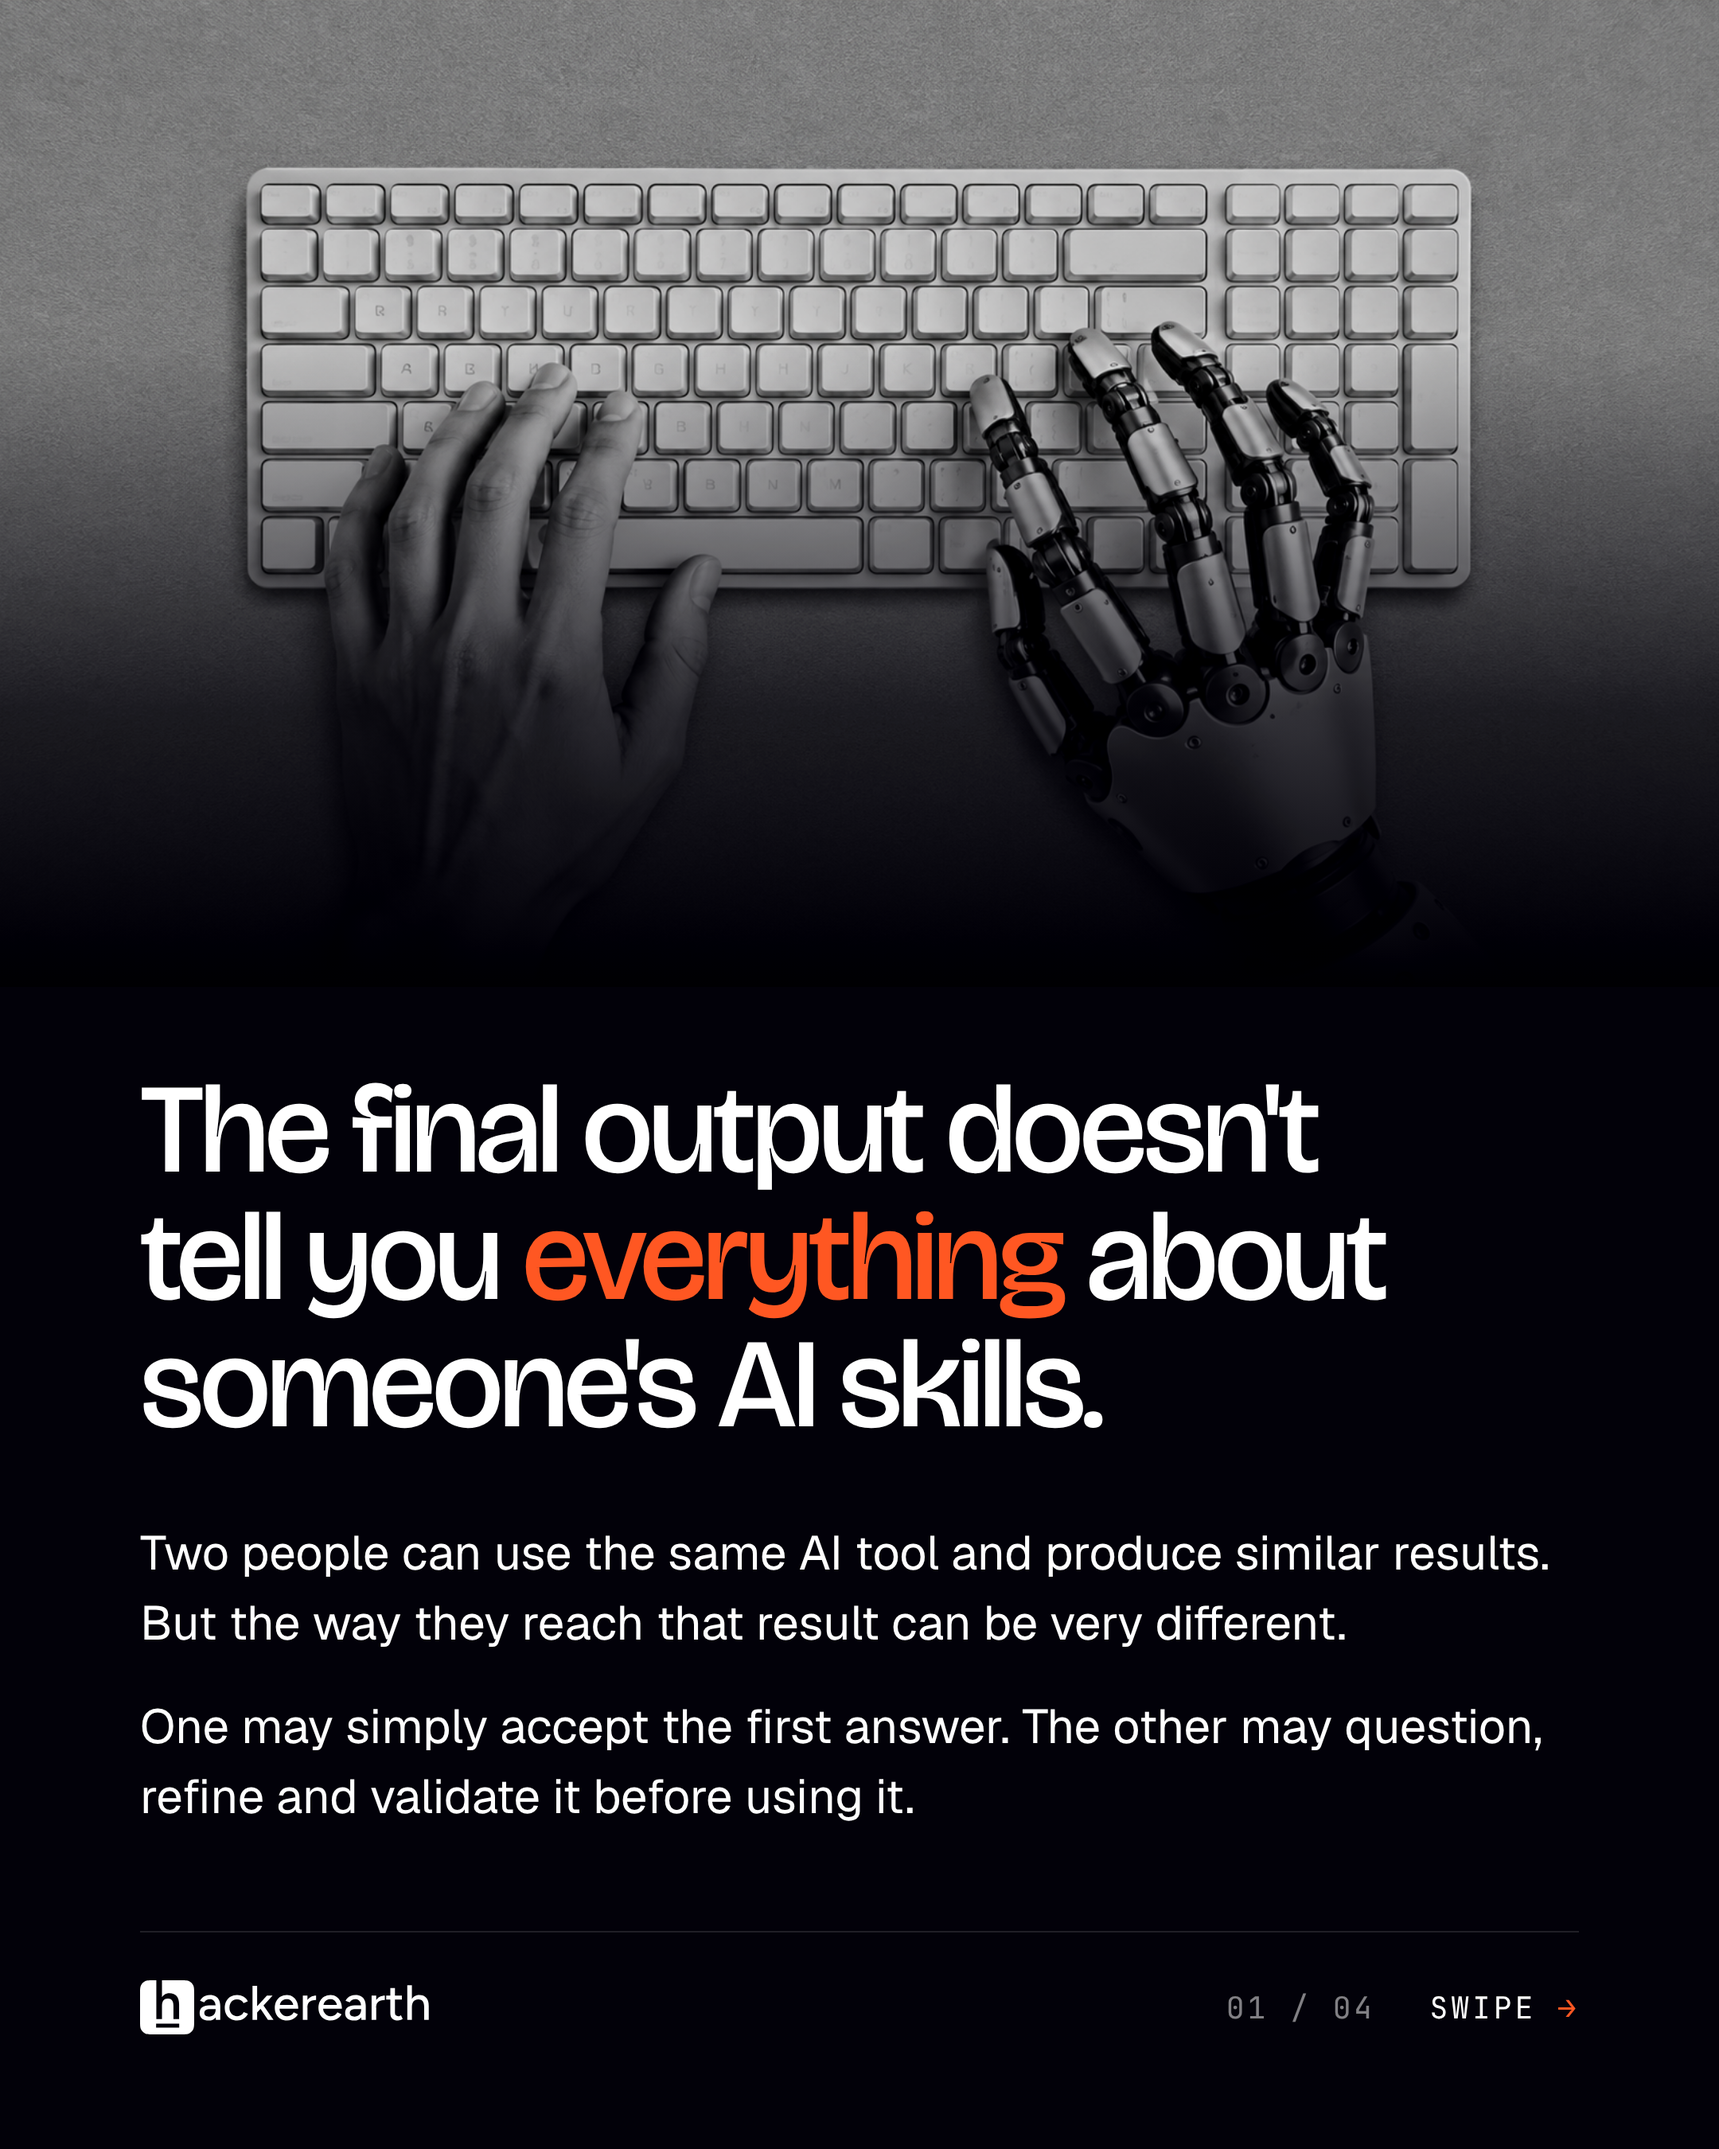
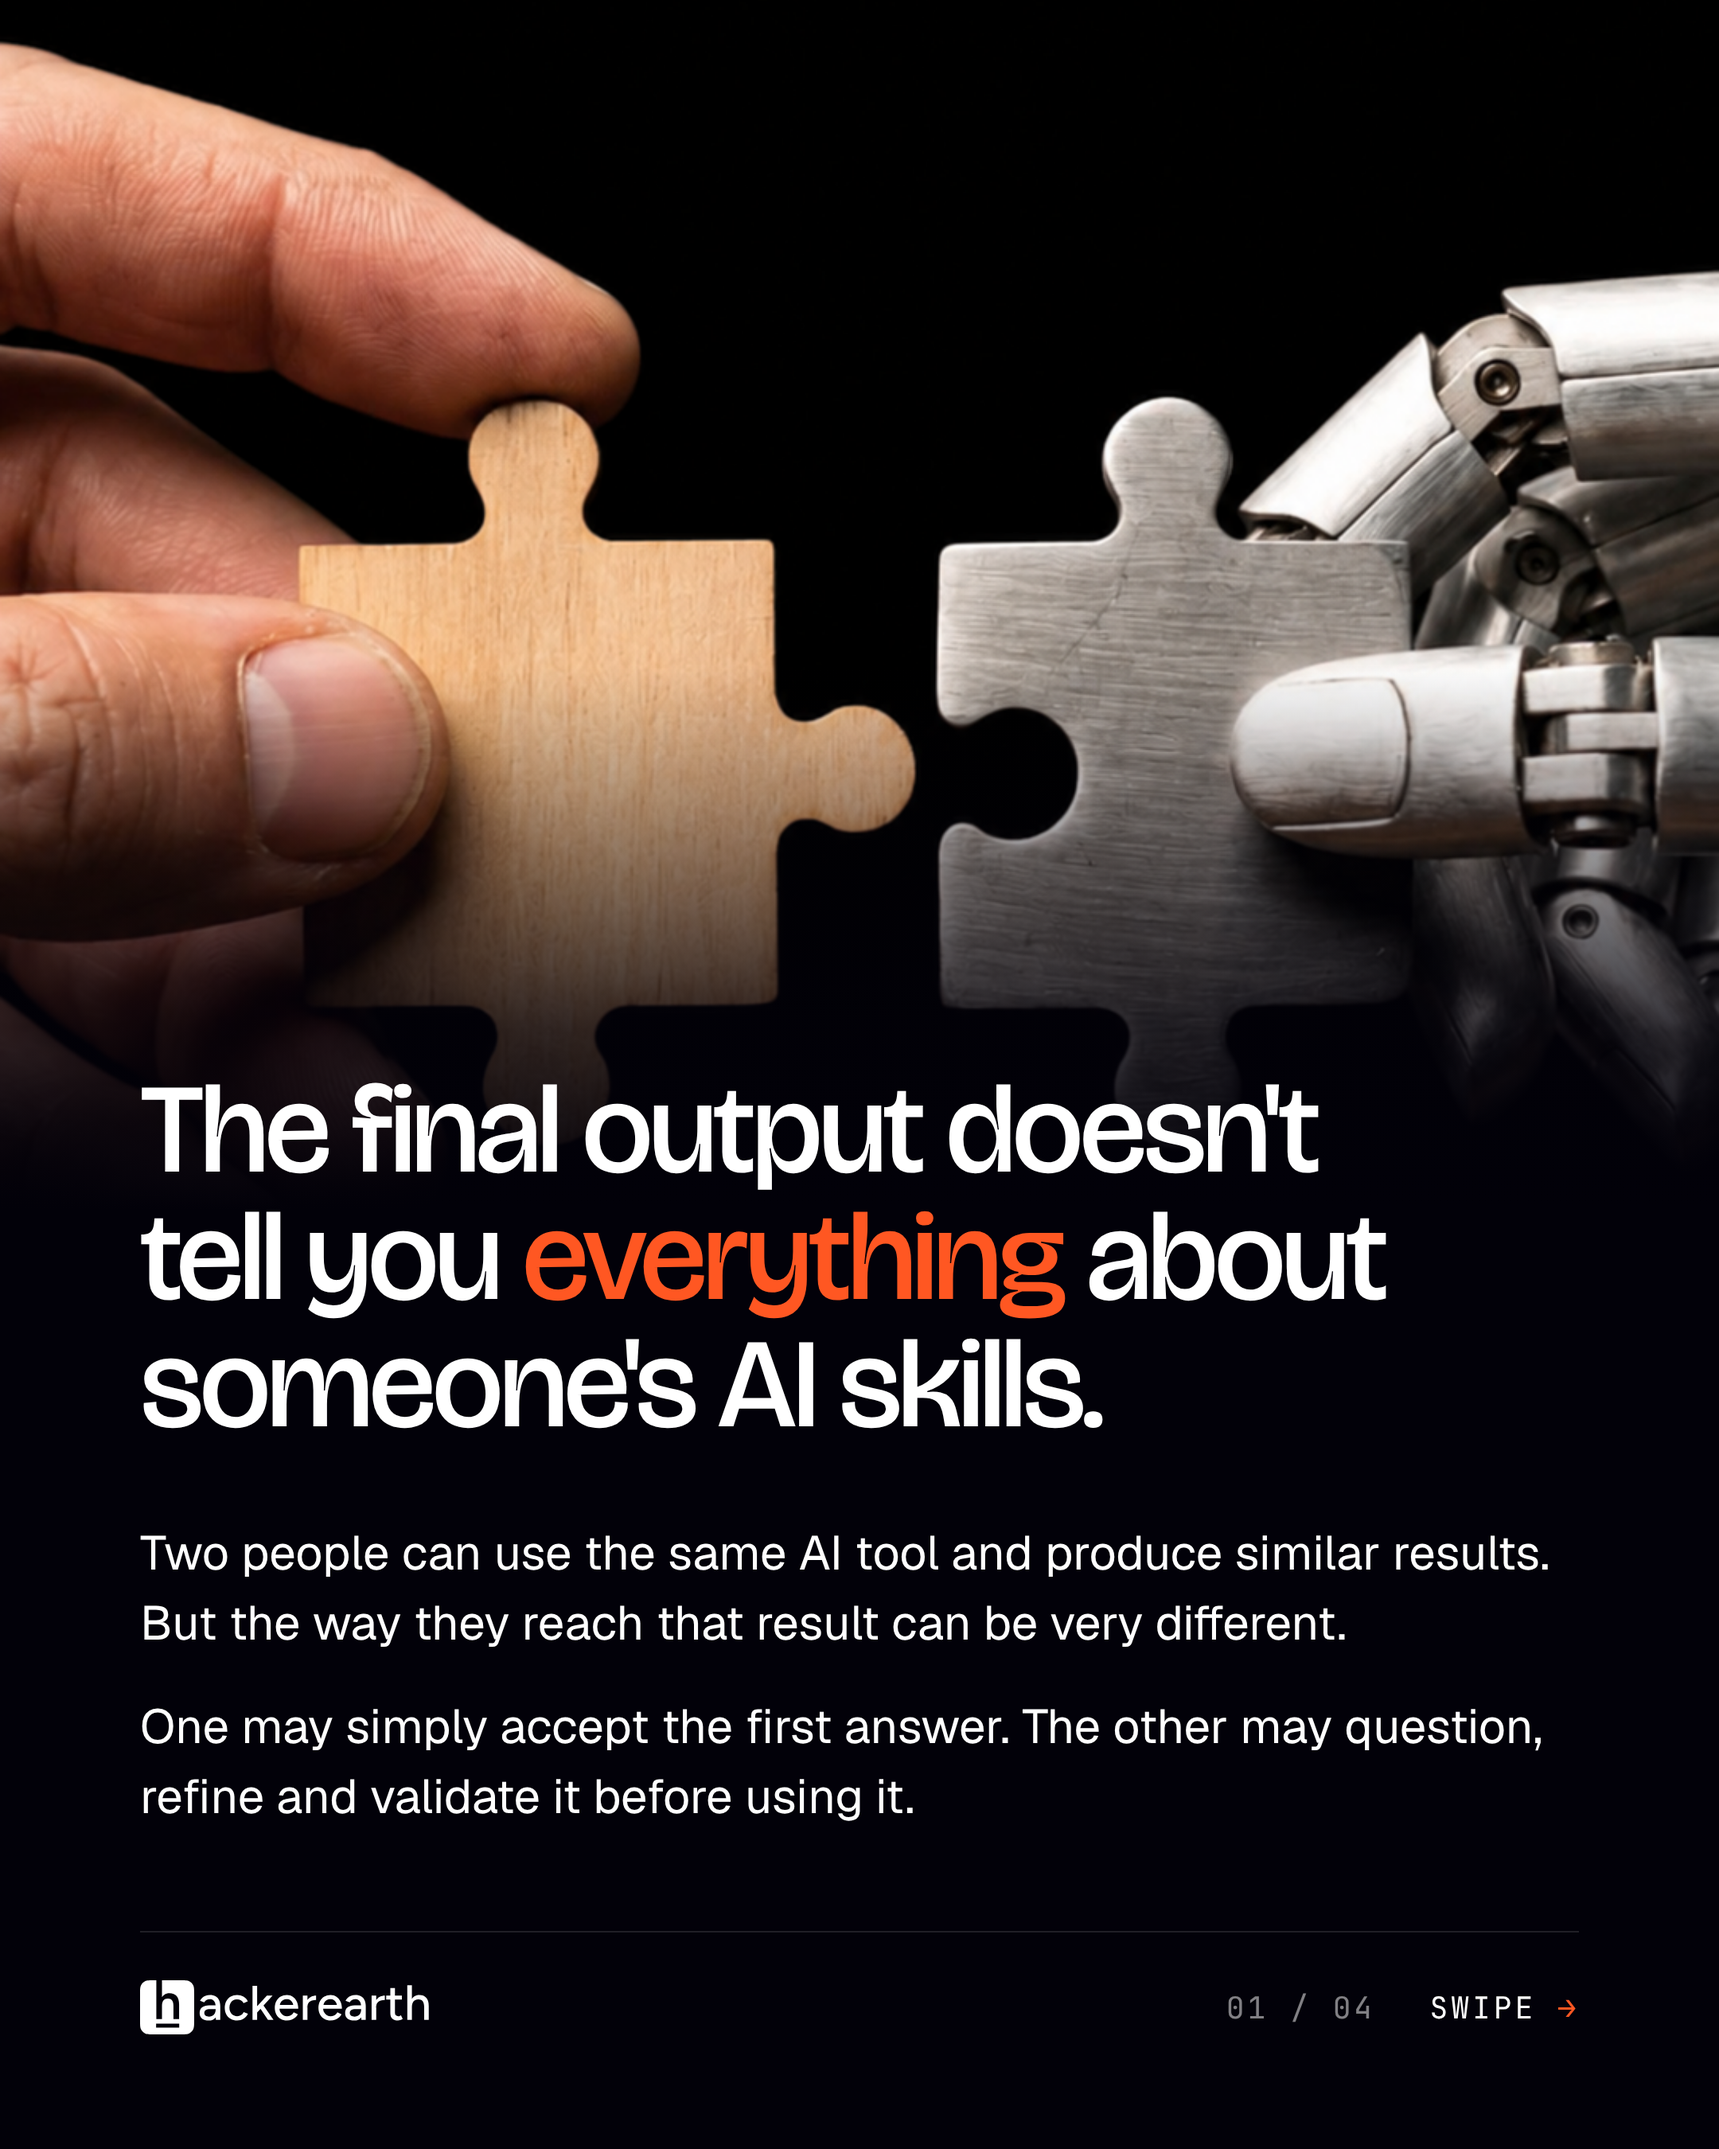
Thinking-behind carousel: puzzle pieces photo on cover
Claude-Session: https://claude.ai/code/session_011WvSfb42evzejCjJy5b8i8

diff --git a/carousel-thinking-behind/carousel.html b/carousel-thinking-behind/carousel.html
@@ -82,8 +82,8 @@ footer{position:absolute;left:88px;right:88px;bottom:72px;display:flex;justify-c
 .dark .body p{color:#fff}
 .cream .body p{color:var(--ink)}
 /* slide 1 photo */
-.photo{position:absolute;top:0;left:0;right:0;height:620px;background:url("../Human and Robot Hands Typing.png") center 30%/cover no-repeat;filter:brightness(.92) contrast(1.05)}
-.photo::after{content:"";position:absolute;inset:0;background:linear-gradient(180deg,rgba(2,1,9,0) 35%,rgba(2,1,9,.75) 72%,var(--ink) 100%)}
+.photo{position:absolute;top:0;left:0;right:0;height:760px;background:url("../Human and Robot Puzzle Pieces.png") center 36%/cover no-repeat}
+.photo::after{content:"";position:absolute;inset:0;background:linear-gradient(180deg,rgba(2,1,9,0) 55%,rgba(2,1,9,.8) 85%,var(--ink) 100%)}
 /* slide 2 question card */
 .qcard{background:var(--card);border:1px solid rgba(2,1,9,.09);border-left:4px solid var(--accent);border-radius:16px;padding:32px 36px}
 .qcard p{font-family:var(--display);font-weight:500;font-variation-settings:"opsz" 48;font-size:38px !important;line-height:1.22 !important;letter-spacing:-.6px;color:var(--accent) !important}

diff --git a/carousel-thinking-behind/extra.css b/carousel-thinking-behind/extra.css
@@ -9,8 +9,8 @@
 .dark .body p{color:#fff}
 .cream .body p{color:var(--ink)}
 /* slide 1 photo */
-.photo{position:absolute;top:0;left:0;right:0;height:620px;background:url("../Human and Robot Hands Typing.png") center 30%/cover no-repeat;filter:brightness(.92) contrast(1.05)}
-.photo::after{content:"";position:absolute;inset:0;background:linear-gradient(180deg,rgba(2,1,9,0) 35%,rgba(2,1,9,.75) 72%,var(--ink) 100%)}
+.photo{position:absolute;top:0;left:0;right:0;height:760px;background:url("../Human and Robot Puzzle Pieces.png") center 36%/cover no-repeat}
+.photo::after{content:"";position:absolute;inset:0;background:linear-gradient(180deg,rgba(2,1,9,0) 55%,rgba(2,1,9,.8) 85%,var(--ink) 100%)}
 /* slide 2 question card */
 .qcard{background:var(--card);border:1px solid rgba(2,1,9,.09);border-left:4px solid var(--accent);border-radius:16px;padding:32px 36px}
 .qcard p{font-family:var(--display);font-weight:500;font-variation-settings:"opsz" 48;font-size:38px !important;line-height:1.22 !important;letter-spacing:-.6px;color:var(--accent) !important}
